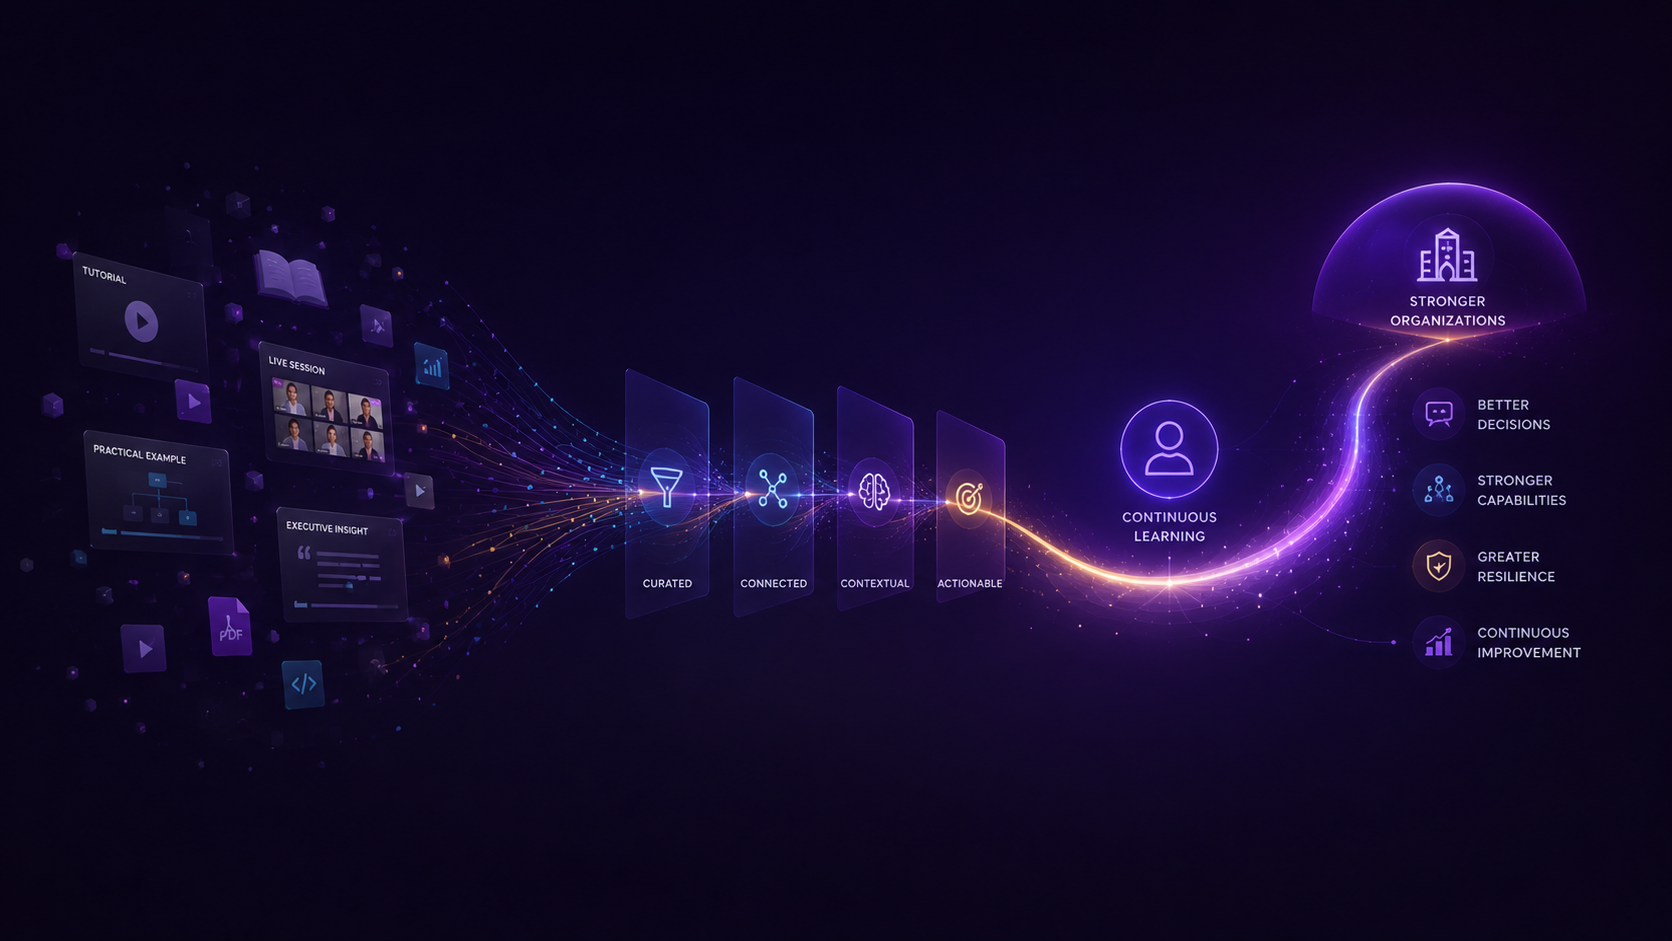
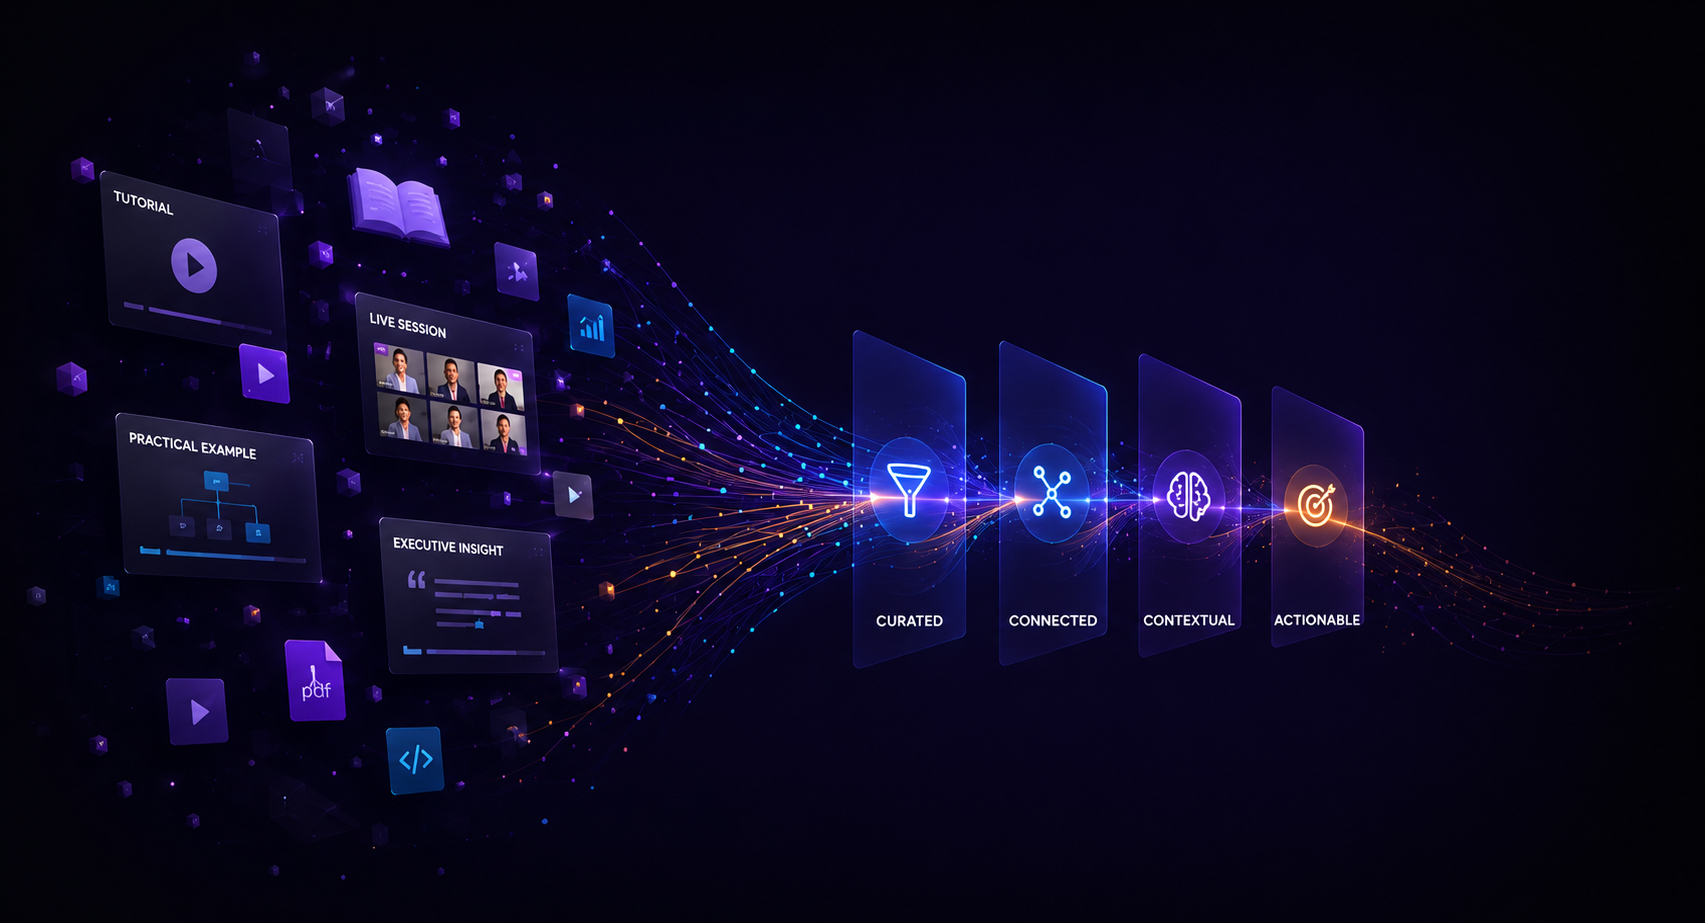
refactor(academy): replace hero with updated BC006 and tighten hero composition

diff --git a/app/globals.css b/app/globals.css
@@ -12978,18 +12978,18 @@ section[id],
 
 .academy-hero {
   border-bottom: 1px solid rgb(255 255 255 / 8%);
-  padding: clamp(104px, 10vw, 156px) 0 clamp(104px, 12vw, 188px);
+  padding: clamp(84px, 8vw, 122px) 0 clamp(88px, 10vw, 150px);
 }
 
 .academy-hero-visual.brand-canon-figure {
-  aspect-ratio: 1677 / 940;
+  aspect-ratio: 1705 / 923;
   background: transparent;
   border: 0;
   border-radius: 0;
   box-shadow: none;
   height: auto;
   line-height: 0;
-  margin: clamp(8px, 0.9vw, 13px) 0 clamp(17px, 2.3vw, 34px);
+  margin: clamp(4px, 0.55vw, 8px) 0 clamp(10px, 1.35vw, 20px);
   max-height: min(46vw, 620px);
   min-height: 300px;
   overflow: visible;
@@ -13034,12 +13034,12 @@ section[id],
   color: rgb(255 255 255 / 68%);
   font-size: clamp(1.14rem, 1.5vw, 1.36rem);
   line-height: 1.52;
-  margin: clamp(28px, 3.2vw, 46px) 0 0;
+  margin: clamp(18px, 2vw, 28px) 0 0;
   max-width: 720px;
 }
 
 .academy-hero-copy > p + p {
-  margin-top: 16px;
+  margin-top: 12px;
 }
 
 .academy-actions {
@@ -13307,11 +13307,11 @@ section[id],
   }
 
   .academy-hero {
-    padding: 98px 0 94px;
+    padding: 86px 0 84px;
   }
 
   .academy-hero-visual.brand-canon-figure {
-    margin: 7px 0 17px;
+    margin: 4px 0 12px;
     min-height: 190px;
   }
 